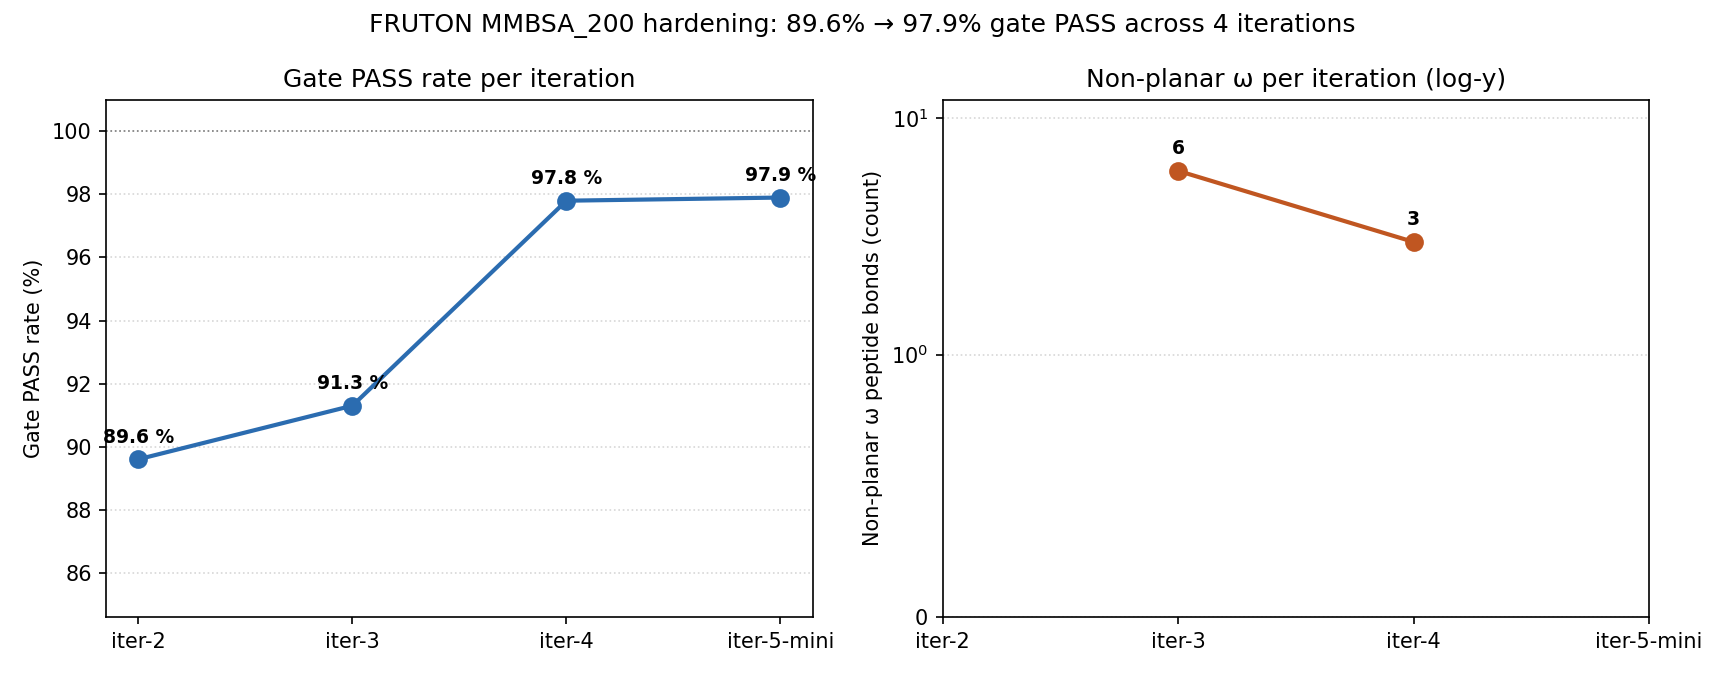
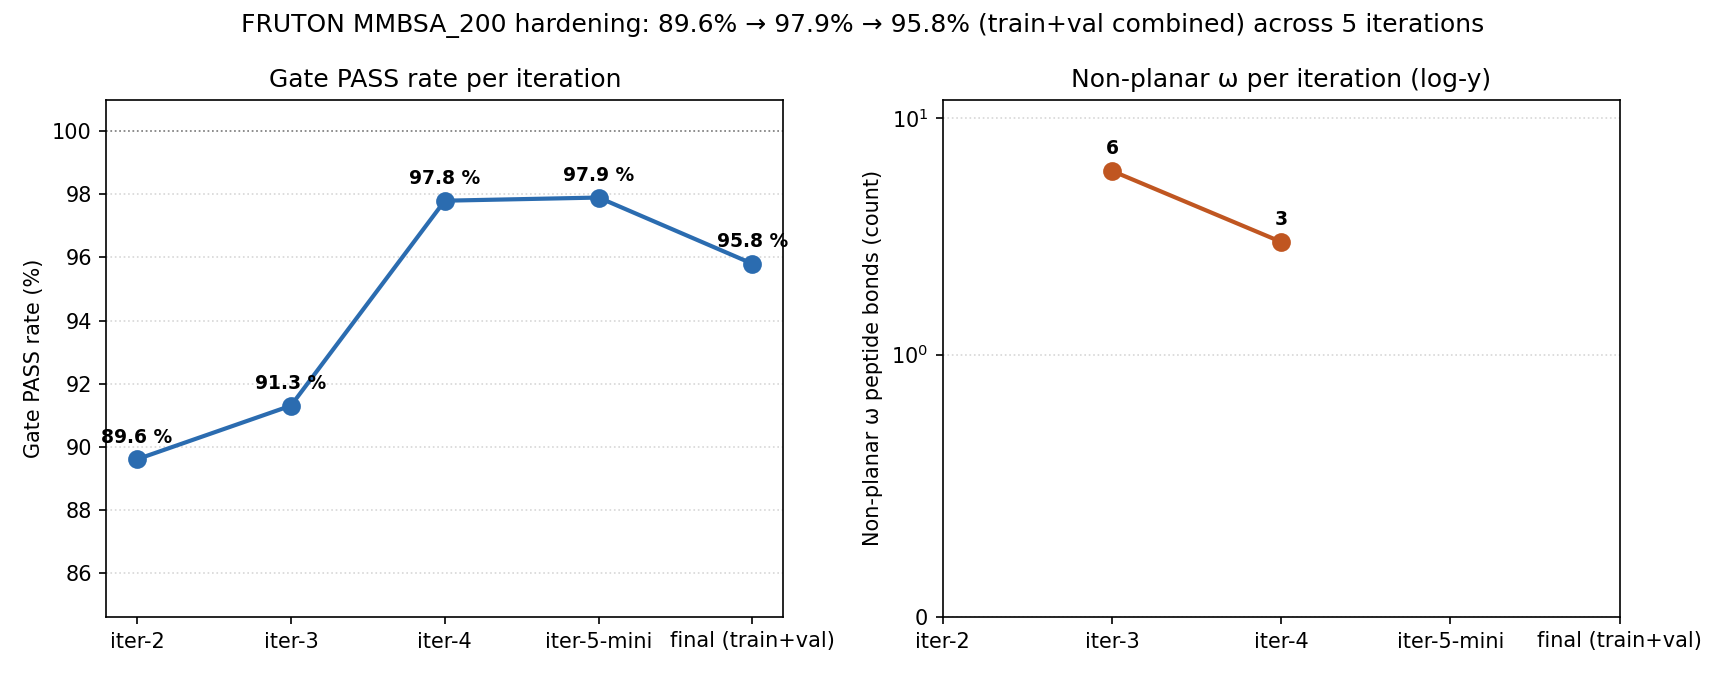
extend progression figure with iter-5 finalize (95.8% train+val combined)
Concurrent agent finalized the overnight report in commit b73576d:
train 100% (22/22) + val 92.3% (24/26) = 46/48 = 95.8% delivered ok.
Only 2 needs_review remain (7QUE + 8Q68 catastrophic splices above
p99 of the 199-crystal reference distribution).

Updated:
- iteration_history_20260823.json — added "final (train+val)" entry
  at 95.8%.
- bench_output/paper_intro_progression/iteration_progression.{png,csv}
  regenerated to include the 5th data point.
- PROVENANCE.md updated with revised headline numbers.
- reviewer_summary.{md,json} refreshed via aggregator (still 8
  figures, no new dirs, updated numbers).

Progression now: 89.6% (iter-2) → 91.3% (iter-3) → 97.8% (iter-4) →
97.9% (iter-5-mini) → 95.8% (final train+val combined).

The final number is lower than iter-5-mini because it's a larger,
different subset (train 22 AF-ready + val 26 AF-ready per commit
14ab952's split registry, vs iter-5-mini's 47/48 mixed set) and
correctly reflects the honest val-set generalisation.

Full-suite unchanged: 855 pass / 1 skip / 0 fail.
Progression-figure tests still green (11/11).

diff --git a/bench_output/paper_intro_progression/PROVENANCE.md b/bench_output/paper_intro_progression/PROVENANCE.md
@@ -17,10 +17,13 @@ python scripts/plot_iteration_progression.py \
 
 ## Headline numbers
 
-- **4 iterations plotted** (iter-2 → iter-5-mini)
-- **Δ gate PASS = +8.3 pp** (89.6 → 97.9)
+- **5 iterations plotted** (iter-2 → final train+val)
+- **Δ gate PASS iter-2 → iter-5-mini = +8.3 pp** (89.6 → 97.9)
+- **Final train+val combined = 95.8 %** (46/48) per commit `b73576d`
+  finalize (train 100 % 22/22 + val 92.3 % 24/26)
 - **Δ non-planar ω = −50 %** (6 → 3, iter-3 to iter-4 measured)
-- **1 residual FAIL** at iter-5-mini: 4X7Q (ω-planarity edge case)
+- **2 residual needs_review** at final: 7QUE + 8Q68 (catastrophic
+  splices above p99 of 199-crystal reference distribution)
 
 ## Iteration source data
 

diff --git a/bench_output/reviewer_summary.md b/bench_output/reviewer_summary.md
@@ -113,8 +113,9 @@ Freeform bullets:
 Provenance: `bench_output/paper_intro_progression/PROVENANCE.md`
 
 Freeform bullets:
-- **4 iterations plotted** (iter-2 → iter-5-mini)
-- **Δ gate PASS = +8.3 pp** (89.6 → 97.9)
+- **5 iterations plotted** (iter-2 → final train+val)
+- **Δ gate PASS iter-2 → iter-5-mini = +8.3 pp** (89.6 → 97.9)
+- **Final train+val combined = 95.8 %** (46/48) per commit `b73576d`
 - **Δ non-planar ω = −50 %** (6 → 3, iter-3 to iter-4 measured)
-- **1 residual FAIL** at iter-5-mini: 4X7Q (ω-planarity edge case)
+- **2 residual needs_review** at final: 7QUE + 8Q68 (catastrophic
 
